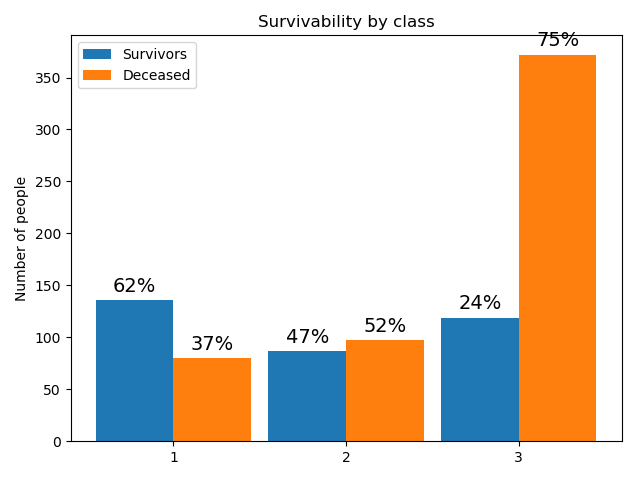
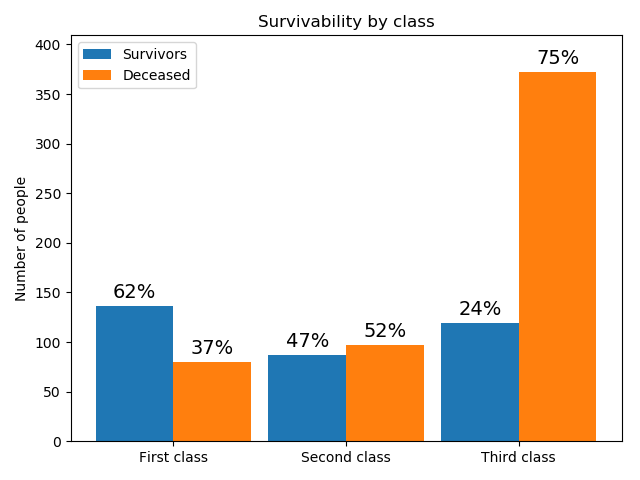
corrected bugs in statistics calculations

diff --git a/src/calculate_stats.py b/src/calculate_stats.py
@@ -31,7 +31,7 @@ class CalculateStats():
 		survivors_num = (data == 1).sum()
 		deceased_num = (data == 0).sum()
 
-		labels = ['']
+		labels = ['Survivors vs Deceased']
 
 		x = np.arange(len(labels))
 		width = 0.5
@@ -41,9 +41,10 @@ class CalculateStats():
 		rects2 = ax.bar(x + width/2, [deceased_num], width, label='Deceased')
 
 		ax.set_ylabel('Number of people')
-		ax.set_title('Survivors vs Deceased')
+		ax.set_title('Survivability - general')
 		ax.set_xticks(x)
 		ax.set_xticklabels(labels)
+		ax.set_ylim([None, 1.1*max(survivors_num, deceased_num)])		
 		ax.legend()
 
 
@@ -67,10 +68,10 @@ class CalculateStats():
 		survived_females = 0
 
 		for survived, sex in zip(survivors_data, gender_data):
-			if survived and sex == 'male':
+			if survived and sex == 0:
 				survived_males += 1
 
-			elif survived and sex == 'female':
+			elif survived and sex == 1:
 				survived_females += 1
 
 		deceased_males = males_num - survived_males
@@ -89,6 +90,7 @@ class CalculateStats():
 		ax.set_title('Survivability by gender')
 		ax.set_xticks(x)
 		ax.set_xticklabels(labels)
+		ax.set_ylim([None, 1.1*max(survived_males, survived_females, deceased_males, deceased_females)])		
 		ax.legend()
 
 		percentage_1 = [int(survived_males*100/(males_num)), int(survived_females*100/(females_num))]
@@ -127,19 +129,23 @@ class CalculateStats():
 		deceased_second_class = second_class_total - survived_second_class
 		deceased_third_class = third_class_total - survived_third_class
 
-		labels = ['1', '2', '3']
+
+		survived_by_class = [survived_first_class, survived_second_class, survived_third_class]
+		deceased_by_class = [deceased_first_class, deceased_second_class, deceased_third_class]
+		labels = ['First class', 'Second class', 'Third class']
 
 		x = np.arange(len(labels))
 		width = 0.45
 
 		fig, ax = plt.subplots()
-		rects1 = ax.bar(x - width/2, [survived_first_class, survived_second_class, survived_third_class], width, label='Survivors')
-		rects2 = ax.bar(x + width/2, [deceased_first_class, deceased_second_class, deceased_third_class], width, label='Deceased')
+		rects1 = ax.bar(x - width/2, survived_by_class, width, label='Survivors')
+		rects2 = ax.bar(x + width/2, deceased_by_class, width, label='Deceased')
 
 		ax.set_ylabel('Number of people')
 		ax.set_title('Survivability by class')
 		ax.set_xticks(x)
 		ax.set_xticklabels(labels)
+		ax.set_ylim([None, 1.1*max(max(survived_by_class), max(deceased_by_class))])		
 		ax.legend()
 
 		percentage_1 = [int(survived_first_class*100/(first_class_total)), int(survived_second_class*100/(second_class_total)), int(survived_third_class*100/(third_class_total))]
